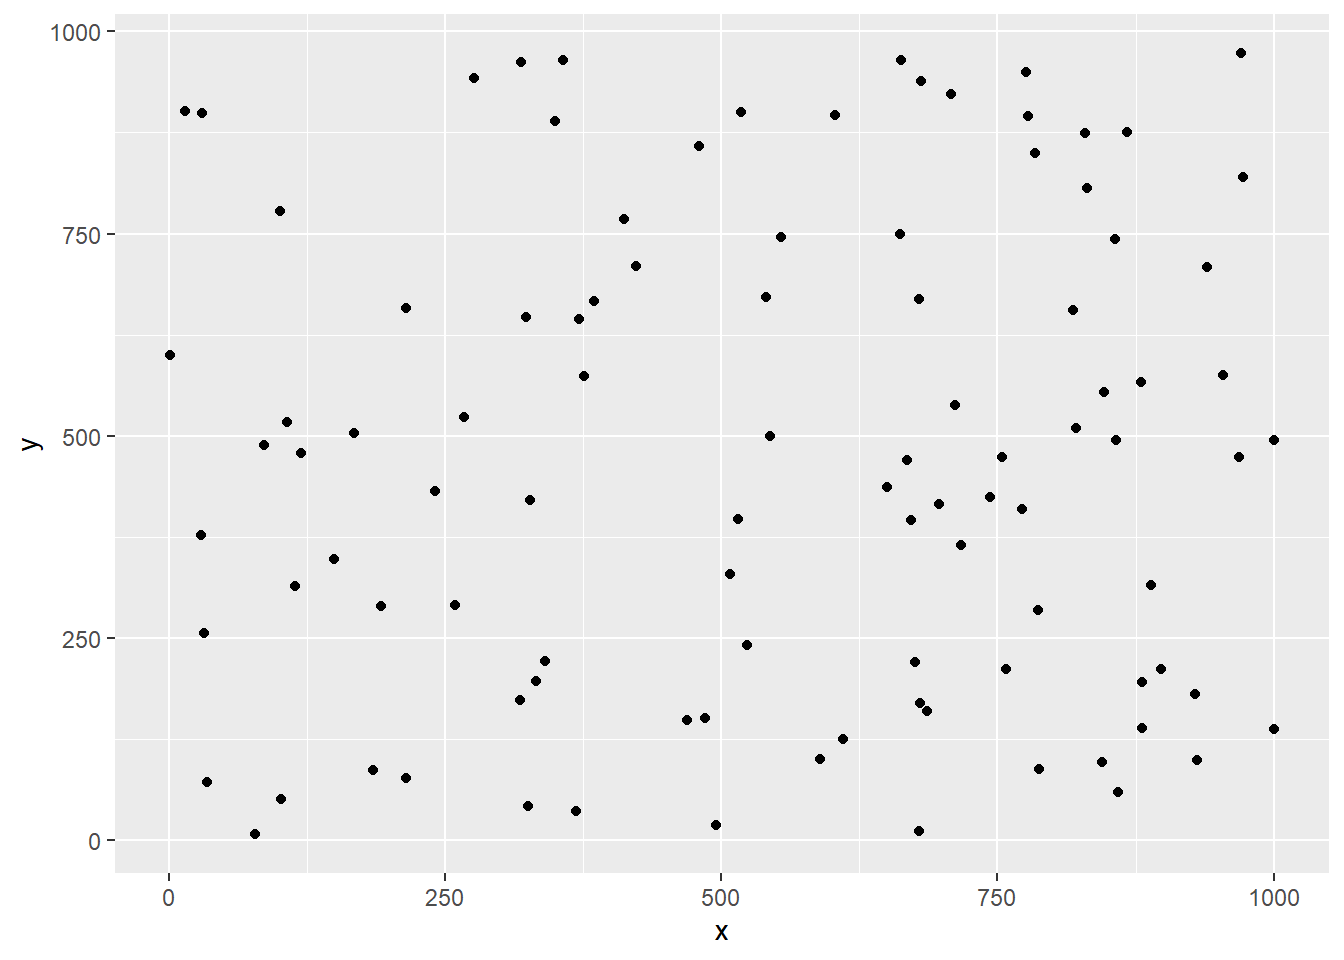
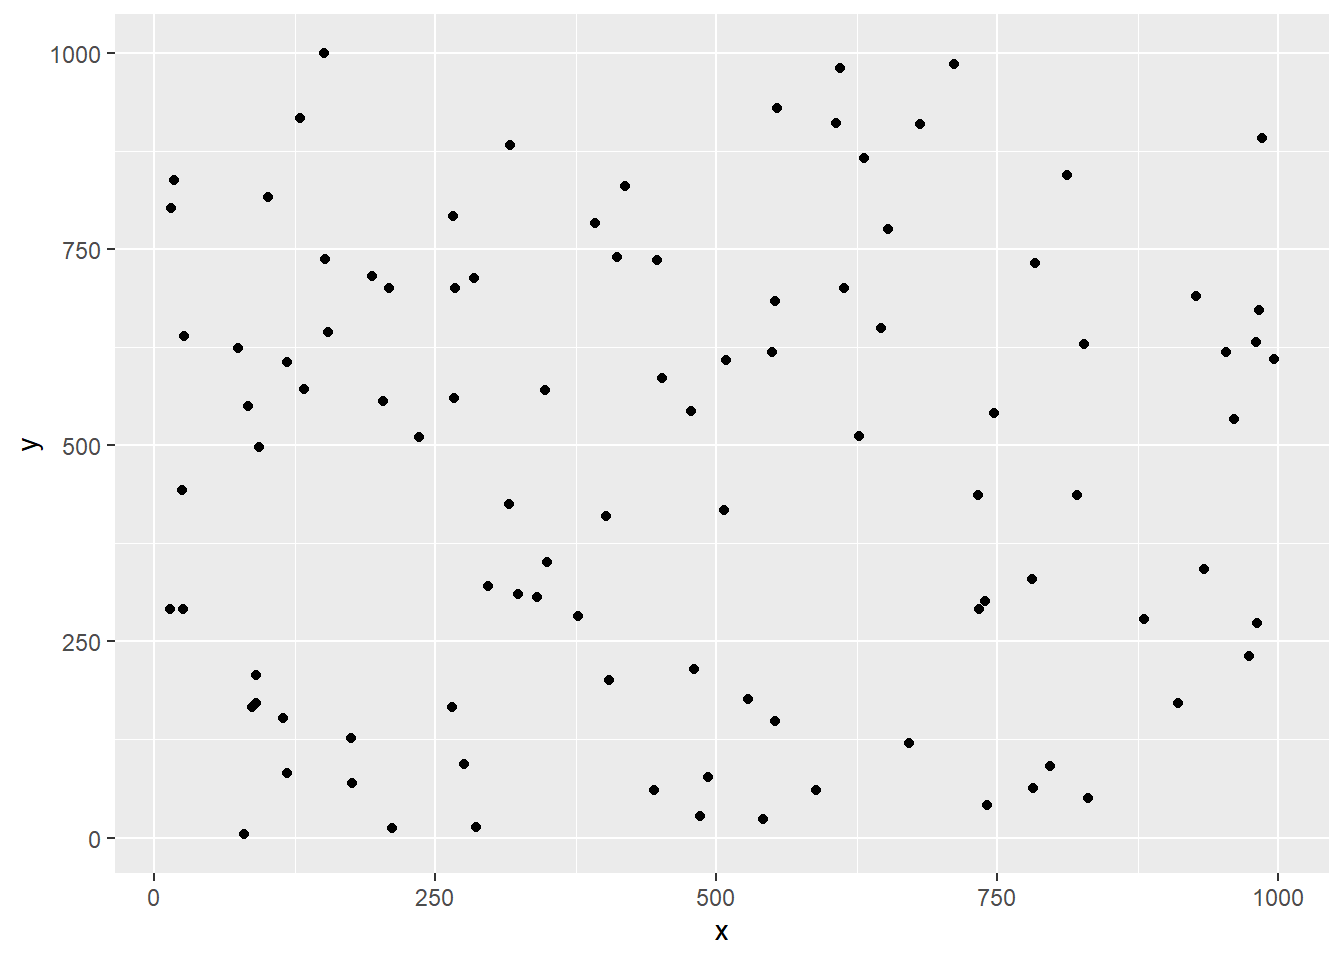
website commit

diff --git a/content/blog/2020-05-15-r-and-python-a-beautiful-combination.html b/content/blog/2020-05-15-r-and-python-a-beautiful-combination.html
@@ -11,7 +11,7 @@ description: ''
 
 
 <p><img src="/blog/2020-05-15-r-and-python-a-beautiful-combination_files/reticulate.png" width="500" height="300" /></p>
-<p>Hello everybody. Today I will be doing a short demonstration on how R and Python can be used simultaneously in an R Markdown file. First, let’s load in the reticulate and tidyverse packages in R.</p>
+<p>Hello everybody. Today I will be doing a short demonstration on how R and Python can be used simultaneously in an R Markdown file. This will be done using the Reticulate package in R. Let’s load in the Reticulate and Tidyverse packages in R.</p>
 <pre class="r"><code>library(reticulate)
 library(tidyverse)</code></pre>
 <pre><code>## -- Attaching packages -------------------------------------------------------------- tidyverse 1.3.0 --</code></pre>
@@ -29,12 +29,12 @@ x = []
 for i in range(100):
   x.append(random.randint(1, 1000))
 print(x)</code></pre>
-<pre><code>## [668, 371, 675, 889, 86, 681, 350, 603, 776, 787, 423, 185, 29, 717, 778, 881, 357, 772, 846, 318, 708, 114, 697, 831, 1, 679, 241, 610, 35, 215, 480, 712, 680, 1000, 881, 818, 32, 385, 940, 369, 754, 541, 30, 412, 589, 168, 267, 972, 554, 758, 15, 929, 845, 376, 931, 970, 259, 101, 78, 663, 880, 523, 662, 341, 102, 485, 120, 150, 969, 192, 469, 515, 495, 319, 686, 898, 276, 954, 859, 332, 788, 743, 215, 867, 672, 544, 325, 829, 107, 650, 784, 679, 323, 1000, 821, 856, 508, 327, 518, 857]</code></pre>
+<pre><code>## [91, 831, 784, 507, 974, 267, 176, 552, 445, 84, 934, 75, 204, 627, 452, 130, 317, 712, 405, 486, 554, 236, 653, 954, 981, 324, 15, 402, 528, 927, 797, 212, 782, 447, 152, 961, 412, 91, 542, 27, 118, 101, 18, 209, 734, 986, 739, 733, 911, 419, 151, 316, 87, 983, 747, 285, 980, 14, 26, 118, 812, 194, 155, 480, 781, 348, 25, 509, 610, 133, 589, 478, 286, 632, 821, 741, 268, 80, 175, 672, 607, 827, 297, 550, 392, 265, 377, 350, 996, 93, 881, 681, 266, 115, 276, 552, 493, 647, 614, 341]</code></pre>
 <pre class="python"><code>y = []
 for i in range(100):
   y.append(random.randint(1, 1000))
 print(y)</code></pre>
-<pre><code>## [470, 644, 220, 315, 489, 938, 889, 896, 950, 285, 710, 87, 377, 365, 895, 138, 964, 409, 554, 173, 922, 314, 415, 806, 600, 669, 431, 125, 72, 77, 858, 538, 169, 495, 196, 655, 256, 667, 708, 36, 474, 672, 899, 768, 100, 503, 523, 820, 746, 211, 901, 180, 97, 574, 99, 973, 291, 778, 7, 965, 566, 241, 749, 222, 51, 151, 478, 347, 474, 289, 148, 397, 18, 962, 159, 211, 942, 575, 59, 197, 88, 424, 658, 876, 396, 499, 42, 874, 517, 437, 850, 11, 647, 137, 509, 743, 329, 420, 900, 495]</code></pre>
+<pre><code>## [172, 50, 733, 417, 232, 560, 69, 684, 60, 550, 342, 624, 557, 512, 586, 917, 883, 986, 201, 28, 930, 511, 776, 619, 273, 310, 803, 410, 176, 690, 91, 12, 63, 736, 738, 534, 740, 207, 23, 640, 606, 816, 838, 700, 291, 892, 302, 437, 171, 831, 1000, 425, 167, 673, 541, 713, 632, 291, 291, 82, 845, 716, 645, 215, 329, 571, 443, 609, 981, 572, 60, 544, 14, 866, 437, 41, 701, 4, 127, 121, 911, 629, 321, 619, 783, 166, 282, 351, 610, 498, 278, 910, 792, 152, 94, 148, 77, 650, 700, 307]</code></pre>
 <p>Now, let’s switch over to R. First, we’re going to create a dataframe using our x and y vectors from Python. Then, we’re going to use ggplot2 to create a scatterplot of the two vectors above.</p>
 <pre class="r"><code>df = data.frame(x = py$x, y = py$y)
 ggplot(data = df, aes(x = x, y = y)) + geom_point()</code></pre>

diff --git a/public/blog/r-and-python-a-beautiful-combination/index.html b/public/blog/r-and-python-a-beautiful-combination/index.html
@@ -71,7 +71,7 @@
 
 
 <p><img src="/blog/2020-05-15-r-and-python-a-beautiful-combination_files/reticulate.png" width="500" height="300" /></p>
-<p>Hello everybody. Today I will be doing a short demonstration on how R and Python can be used simultaneously in an R Markdown file. First, let’s load in the reticulate and tidyverse packages in R.</p>
+<p>Hello everybody. Today I will be doing a short demonstration on how R and Python can be used simultaneously in an R Markdown file. This will be done using the Reticulate package in R. Let’s load in the Reticulate and Tidyverse packages in R.</p>
 <pre class="r"><code>library(reticulate)
 library(tidyverse)</code></pre>
 <pre><code>## -- Attaching packages -------------------------------------------------------------- tidyverse 1.3.0 --</code></pre>
@@ -89,12 +89,12 @@ x = []
 for i in range(100):
   x.append(random.randint(1, 1000))
 print(x)</code></pre>
-<pre><code>## [668, 371, 675, 889, 86, 681, 350, 603, 776, 787, 423, 185, 29, 717, 778, 881, 357, 772, 846, 318, 708, 114, 697, 831, 1, 679, 241, 610, 35, 215, 480, 712, 680, 1000, 881, 818, 32, 385, 940, 369, 754, 541, 30, 412, 589, 168, 267, 972, 554, 758, 15, 929, 845, 376, 931, 970, 259, 101, 78, 663, 880, 523, 662, 341, 102, 485, 120, 150, 969, 192, 469, 515, 495, 319, 686, 898, 276, 954, 859, 332, 788, 743, 215, 867, 672, 544, 325, 829, 107, 650, 784, 679, 323, 1000, 821, 856, 508, 327, 518, 857]</code></pre>
+<pre><code>## [91, 831, 784, 507, 974, 267, 176, 552, 445, 84, 934, 75, 204, 627, 452, 130, 317, 712, 405, 486, 554, 236, 653, 954, 981, 324, 15, 402, 528, 927, 797, 212, 782, 447, 152, 961, 412, 91, 542, 27, 118, 101, 18, 209, 734, 986, 739, 733, 911, 419, 151, 316, 87, 983, 747, 285, 980, 14, 26, 118, 812, 194, 155, 480, 781, 348, 25, 509, 610, 133, 589, 478, 286, 632, 821, 741, 268, 80, 175, 672, 607, 827, 297, 550, 392, 265, 377, 350, 996, 93, 881, 681, 266, 115, 276, 552, 493, 647, 614, 341]</code></pre>
 <pre class="python"><code>y = []
 for i in range(100):
   y.append(random.randint(1, 1000))
 print(y)</code></pre>
-<pre><code>## [470, 644, 220, 315, 489, 938, 889, 896, 950, 285, 710, 87, 377, 365, 895, 138, 964, 409, 554, 173, 922, 314, 415, 806, 600, 669, 431, 125, 72, 77, 858, 538, 169, 495, 196, 655, 256, 667, 708, 36, 474, 672, 899, 768, 100, 503, 523, 820, 746, 211, 901, 180, 97, 574, 99, 973, 291, 778, 7, 965, 566, 241, 749, 222, 51, 151, 478, 347, 474, 289, 148, 397, 18, 962, 159, 211, 942, 575, 59, 197, 88, 424, 658, 876, 396, 499, 42, 874, 517, 437, 850, 11, 647, 137, 509, 743, 329, 420, 900, 495]</code></pre>
+<pre><code>## [172, 50, 733, 417, 232, 560, 69, 684, 60, 550, 342, 624, 557, 512, 586, 917, 883, 986, 201, 28, 930, 511, 776, 619, 273, 310, 803, 410, 176, 690, 91, 12, 63, 736, 738, 534, 740, 207, 23, 640, 606, 816, 838, 700, 291, 892, 302, 437, 171, 831, 1000, 425, 167, 673, 541, 713, 632, 291, 291, 82, 845, 716, 645, 215, 329, 571, 443, 609, 981, 572, 60, 544, 14, 866, 437, 41, 701, 4, 127, 121, 911, 629, 321, 619, 783, 166, 282, 351, 610, 498, 278, 910, 792, 152, 94, 148, 77, 650, 700, 307]</code></pre>
 <p>Now, let’s switch over to R. First, we’re going to create a dataframe using our x and y vectors from Python. Then, we’re going to use ggplot2 to create a scatterplot of the two vectors above.</p>
 <pre class="r"><code>df = data.frame(x = py$x, y = py$y)
 ggplot(data = df, aes(x = x, y = y)) + geom_point()</code></pre>
